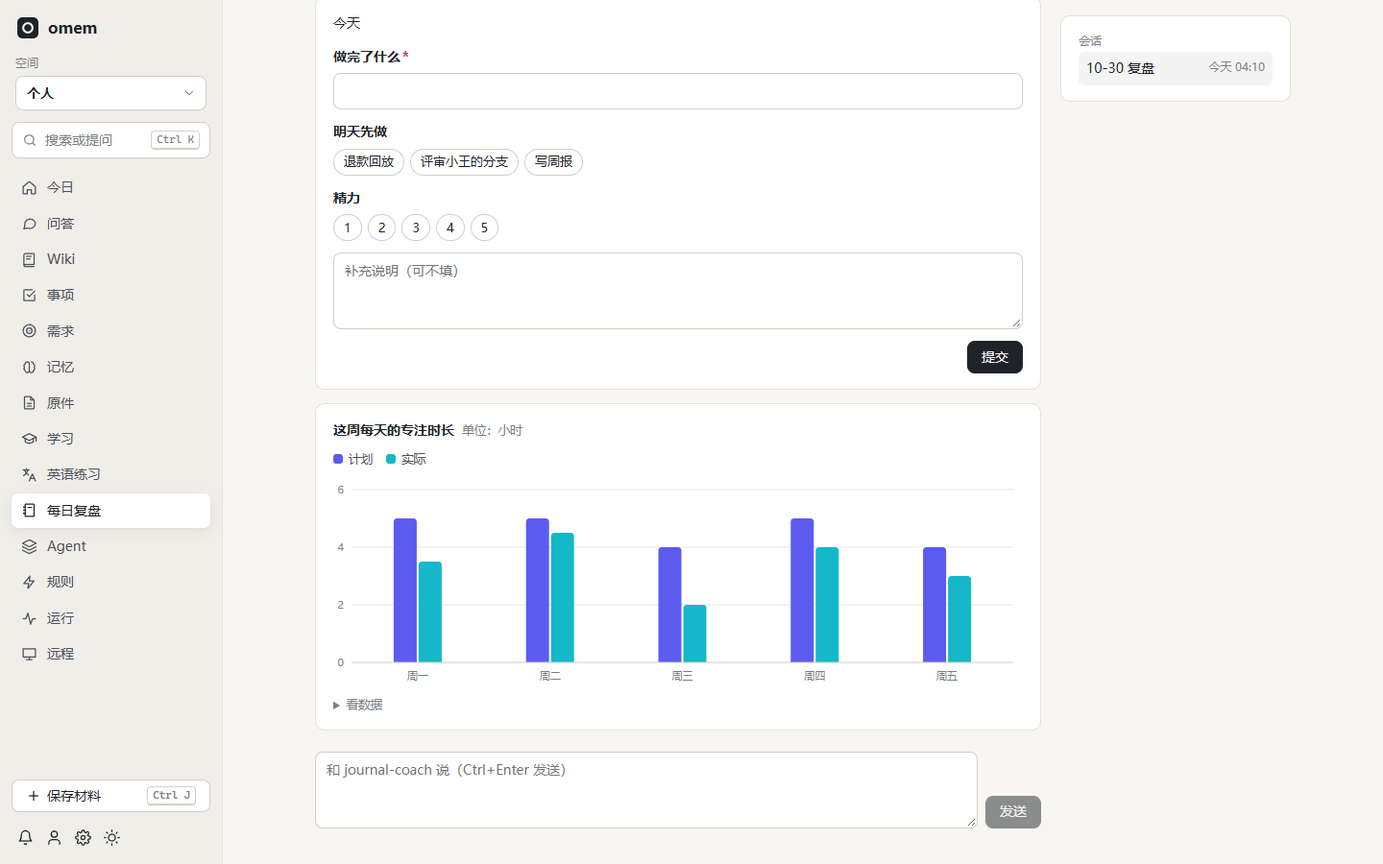
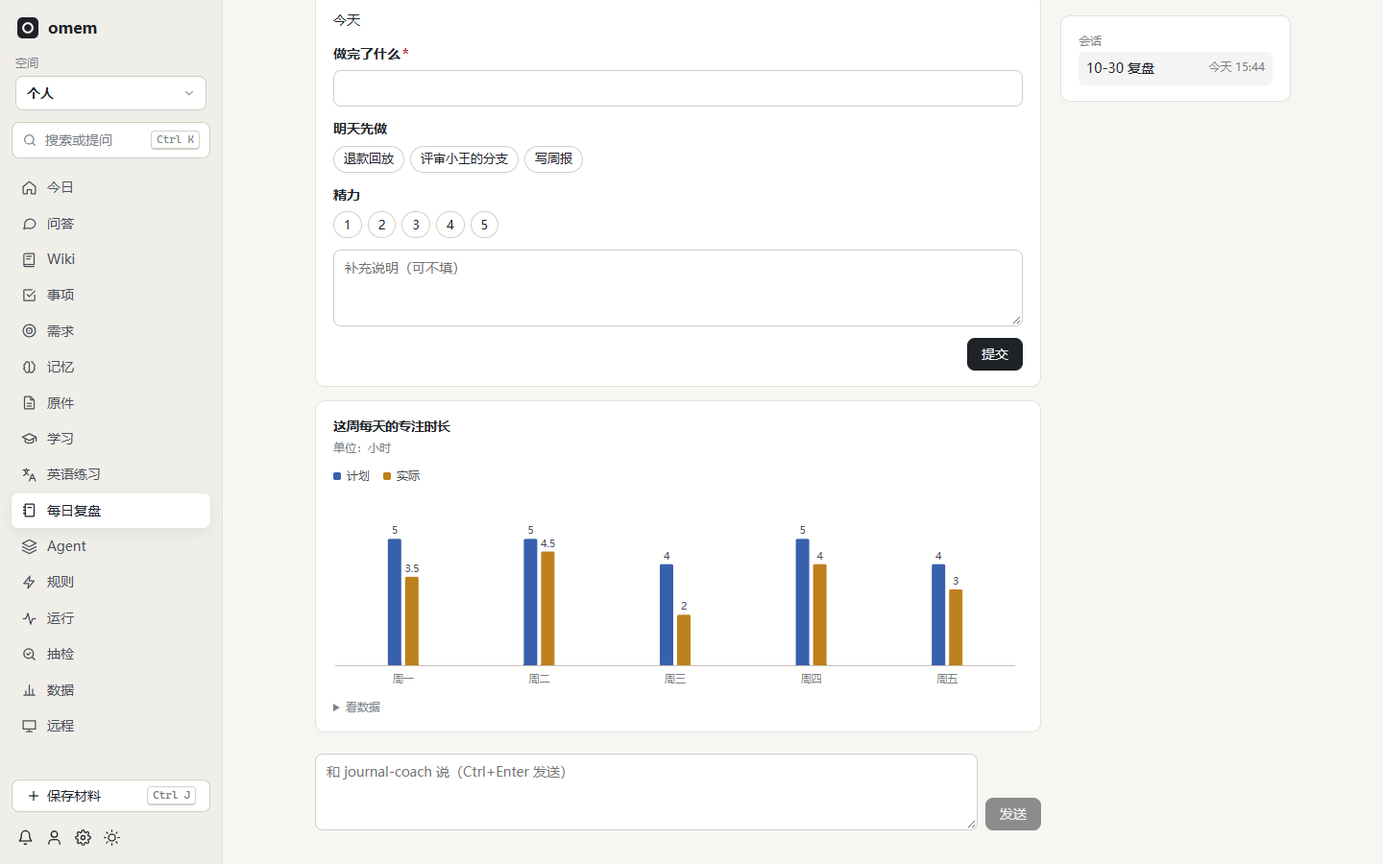
数据页改用公共图表组件；演示数据与截图
- Insights.vue：一排数字用 MetricRow（能点开明细）；单列小表是带链接的条形；多列同单位是并排的彩色条，其他单位的列写在行尾；按周的多列小表是线尾标名字的折线；每天做了多少件是按场景堆叠的柱，场景颜色按场景固定，图例带各场景合计。版式、文字、筛选、明细、导出不变；页面里手写的条形和小柱的样式删掉。
- scripts/doc-screens.ts：一个月的虚构运行、反馈和记忆召回，新截图 insights；一个包含各种图表的演示块（#/ui/uv_charts_demo，放在个人空间，不进别的截图），只供 --serve 时看。重拍 ask-view、plugin-default。
- 文档：site/features/insights.md 加截图，acceptance 加两条验收，Wiki 变更记录加一节。

diff --git a/web/src/views/Insights.vue b/web/src/views/Insights.vue
@@ -8,6 +8,11 @@ import UiCheckbox from "../components/UiCheckbox.vue";
 import UiSelect from "../components/UiSelect.vue";
 import UiDateTime from "../components/UiDateTime.vue";
 import VirtualList from "../components/VirtualList.vue";
+import MetricRow from "../components/charts/MetricRow.vue";
+import RankBars from "../components/charts/RankBars.vue";
+import BarChart from "../components/charts/BarChart.vue";
+import TrendChart from "../components/charts/TrendChart.vue";
+import type { ChartSpec, MetricItem } from "@omem-ai/plugin-sdk/charts";
 
 type Section = InsightsReport["sections"][number];
 type Chart = Section["charts"][number];
@@ -94,13 +99,17 @@ const allMetrics = computed(() => (data.value?.sections ?? []).flatMap(s => [...
 const detailMetric = computed(() => allMetrics.value.find(m => m.key === q("detail")));
 
 // ---- how a section's numbers are laid out
-// Plain numbers are figures. Numbers the server marked as cells of a table become that table: one
-// column of counts is drawn as bars, several columns as a small table. A chart whose every point is
-// already shown as a figure or a cell is not drawn a second time.
-type Row = { label: string; cells: (InsightMetric | undefined)[] };
-type Table = { title: string; cols: string[]; rows: Row[]; max: number };
-const figures = (s: Section) => s.metrics.filter(m => !m.cell);
-function tables(s: Section): Table[] {
+// Plain numbers are figures. Numbers the server marked as cells of a table become rows of bars: the
+// columns in the first column's unit are bars side by side (each in its own colour, its value at the
+// bar's end), the others (a rate, hours) text at the row's end. A chart whose every point is already
+// shown as a figure or a cell is not drawn a second time. Every bar, figure and cell opens its records.
+const figures = (s: Section): MetricItem[] => s.metrics.filter(m => !m.cell).map(m => {
+  const v = shown(m);
+  const prev = m.previous !== undefined ? shown({ value: m.previous ?? null, unit: m.unit }) : null;
+  return { label: m.label, value: v.value, unit: v.unit, link: m.link, hint: m.note ?? "看是哪些记录", note: prev ? `上一段 ${prev.value}${prev.unit}` : m.samples !== undefined ? `${m.samples} 个样本` : undefined };
+});
+type Block = { key: string; kind: "rows" | "bars" | "trend"; wide: boolean; spec: Omit<ChartSpec, "kind">; empty?: boolean };
+function tableBlocks(s: Section): Block[] {
   const out = new Map<string, { cols: string[]; rows: Map<string, Map<string, InsightMetric>> }>();
   for (const m of s.metrics) {
     if (!m.cell) continue;
@@ -112,25 +121,38 @@ function tables(s: Section): Table[] {
     r.set(m.cell.col, m);
   }
   return [...out].map(([title, t]) => {
-    const rows = [...t.rows].map(([label, cells]) => ({ label, cells: t.cols.map(c => cells.get(c)) }));
-    return { title, cols: t.cols, rows, max: Math.max(1, ...rows.map(r => r.cells[0]?.value ?? 0)) };
+    const rows = [...t.rows];
+    const unitOf = (col: string) => rows.map(([, cells]) => cells.get(col)?.unit).find(u => u !== undefined);
+    const unit = unitOf(t.cols[0]);
+    const bars = t.cols.filter(c => unitOf(c) === unit), extras = t.cols.filter(c => unitOf(c) !== unit);
+    const series = bars.map((col, slot) => ({ name: col, slot, values: rows.map(([, cells]) => cells.get(col)?.value ?? 0), links: bars.length > 1 ? rows.map(([, cells]) => cells.get(col)?.link) : undefined }));
+    // Rows that are weeks or days read as a course: one line per column, each point opening its records.
+    if (bars.length > 1 && !extras.length && rows.length >= 3 && rows.every(([label]) => /^\d{4}-\d{2}-\d{2}/.test(label)))
+      return { key: `t:${title}`, kind: "trend" as const, wide: true, spec: { title, unit, labels: rows.map(([label]) => label), series: series.map(x => ({ ...x, links: rows.map(([, cells]) => cells.get(x.name)?.link) })) } };
+    return { key: `t:${title}`, kind: "rows" as const, wide: bars.length > 1 || extras.length > 1, spec: {
+      title, unit, labels: rows.map(([label]) => label), series,
+      links: bars.length === 1 ? rows.map(([, cells]) => cells.get(t.cols[0])?.link) : undefined,
+      extras: extras.map(col => ({ name: col, values: rows.map(([, cells]) => { const v = shown(cells.get(col)); return v.value === "—" ? "" : `${v.value}${v.unit}`; }), links: rows.map(([, cells]) => cells.get(col)?.link) })),
+    } };
   });
 }
-function charts(s: Section): Chart[] {
-  const shown = new Set(s.metrics.map(m => m.key));
-  return s.charts.filter(c => !(c.points?.length && c.points.every(p => shown.has(p.key))));
+function chartBlocks(s: Section, scenes: readonly string[]): Block[] {
+  const shownKeys = new Set(s.metrics.map(m => m.key));
+  return s.charts.filter(c => !(c.points?.length && c.points.every(p => shownKeys.has(p.key)))).map((c: Chart): Block => {
+    const n = c.labels.length, m = c.series.length;
+    // Points come label by label, a series after another within a label (or one per label for a single series).
+    const at = (i: number, si: number) => c.points?.length === n * m ? c.points[i * m + si]?.link : undefined;
+    if (c.kind === "hbar") return { key: `c:${c.title}`, kind: "rows", wide: false, spec: { title: c.title, unit: c.unit, labels: c.labels, series: c.series, links: c.points?.length === n ? c.points.map(p => p.link) : undefined } };
+    // A series keeps its colour by its place among the scenes (or in the chart), whichever of them are drawn.
+    const series = c.series.map((x, si) => ({ ...x, slot: scenes.includes(x.name) ? scenes.indexOf(x.name) : si, links: c.labels.map((_, i) => at(i, si)) })).filter(x => x.values.some(v => v));
+    const empty = !series.length;
+    // A count per day added up over kinds reads best as stacked columns, one a day.
+    if (c.stack) return { key: `c:${c.title}`, kind: "bars", wide: true, empty, spec: { title: c.title, unit: c.unit, labels: c.labels, series, stack: true, caption: dayLabels(c.labels) ? "一根一天" : undefined } };
+    return { key: `c:${c.title}`, kind: "trend", wide: true, empty, spec: { title: c.title, unit: c.unit, labels: c.labels, series, caption: dayLabels(c.labels) ? "一点一天" : undefined } };
+  });
 }
-type Bar = { label: string; value: number; link?: string };
-const barsOf = (c: Chart): Bar[] => c.labels.map((label, i) => ({ label, value: c.series[0]?.values[i] ?? 0, link: c.points?.[i]?.link }));
-type Spark = { name: string; values: number[]; total: number; isTotal?: boolean };
-function sparksOf(c: Chart): { rows: Spark[]; max: number } {
-  const rows: Spark[] = c.series.map(x => ({ name: x.name, values: x.values, total: x.values.reduce((a, b) => a + b, 0) })).filter(x => x.total > 0);
-  if (rows.length > 1) {
-    const sum = c.labels.map((_, i) => rows.reduce((a, r) => a + (r.values[i] ?? 0), 0));
-    rows.unshift({ name: "合计", values: sum, total: sum.reduce((a, b) => a + b, 0), isTotal: true });
-  }
-  return { rows, max: Math.max(1, ...rows.flatMap(r => r.values)) };
-}
+const dayLabels = (labels: string[]) => labels.length > 1 && labels.every(l => /^\d{4}-\d{2}-\d{2}$/.test(l));
+const blocks = (s: Section) => [...tableBlocks(s), ...chartBlocks(s, data.value?.scenes ?? [])];
 function notes(s: Section): string[] {
   const seen = new Set<string>();
   const out: string[] = [];
@@ -156,7 +178,6 @@ function when(at: string) {
   const t = Date.parse(at);
   return Number.isFinite(t) ? new Date(t).toLocaleString("zh-CN", { hour12: false, month: "2-digit", day: "2-digit", hour: "2-digit", minute: "2-digit" }) : at;
 }
-const width = (v: number | null | undefined, max: number) => `${Math.max(0, Math.min(100, ((v ?? 0) / max) * 100))}%`;
 
 // ---- the owner's own assumption, kept in this browser only
 const estimate = ref("");
@@ -233,56 +254,17 @@ function exportUrl(format: string) { const params = new URLSearchParams(query.va
         <p v-if="s.error" role="alert">这一块没算出来：{{ s.error }} <button type="button" class="btn sm" @click="load">重试</button></p>
         <p v-else-if="s.empty" class="muted">{{ s.empty }}</p>
         <template v-else>
-          <div v-if="figures(s).length" class="figures">
-            <a v-for="m in figures(s)" :key="m.key" class="figure" :href="m.link" :title="m.note ?? '看是哪些记录'">
-              <span class="figure-label">{{ m.label }}</span>
-              <span class="figure-value">{{ shown(m).value }}<small v-if="shown(m).unit">{{ shown(m).unit }}</small></span>
-              <span v-if="m.previous !== undefined" class="figure-sub">上一段 {{ shown({ value: m.previous ?? null, unit: m.unit }).value }}{{ shown({ value: m.previous ?? null, unit: m.unit }).unit }}</span>
-              <span v-else-if="m.samples !== undefined" class="figure-sub">{{ m.samples }} 个样本</span>
-            </a>
-          </div>
+          <MetricRow v-if="figures(s).length" :items="figures(s)" />
 
-          <div v-if="tables(s).length || charts(s).length" class="blocks">
-            <div v-for="t in tables(s)" :key="t.title" class="block" :class="{ wide: t.cols.length > 3 }">
-              <h3>{{ t.title }}</h3>
-              <div v-if="t.cols.length === 1" class="bars">
-                <a v-for="r in t.rows" :key="r.label" class="bar-row" :href="r.cells[0]?.link">
-                  <span class="bar-label" :title="r.label">{{ r.label }}</span>
-                  <span class="bar-track"><span class="bar-fill" :style="{ width: width(r.cells[0]?.value, t.max) }"></span></span>
-                  <span class="bar-value">{{ num(r.cells[0]?.value) }}</span>
-                </a>
-              </div>
-              <div v-else class="grid-wrap">
-                <table class="grid">
-                  <thead><tr><th></th><th v-for="c in t.cols" :key="c">{{ c }}</th></tr></thead>
-                  <tbody>
-                    <tr v-for="r in t.rows" :key="r.label">
-                      <th scope="row">{{ r.label }}</th>
-                      <td v-for="(m, i) in r.cells" :key="t.cols[i]"><a v-if="m" :href="m.link" :title="m.note">{{ shown(m).value }}<small v-if="shown(m).unit">{{ shown(m).unit }}</small></a><span v-else class="muted">—</span></td>
-                    </tr>
-                  </tbody>
-                </table>
-              </div>
-            </div>
-
-            <div v-for="c in charts(s)" :key="c.title" class="block" :class="{ wide: c.kind !== 'hbar' }">
-              <h3>{{ c.title }}</h3>
-              <div v-if="c.kind === 'hbar'" class="bars">
-                <component :is="b.link ? 'a' : 'div'" v-for="b in barsOf(c)" :key="b.label" class="bar-row" :href="b.link">
-                  <span class="bar-label" :title="b.label">{{ b.label }}</span>
-                  <span class="bar-track"><span class="bar-fill" :style="{ width: width(b.value, Math.max(1, ...barsOf(c).map(x => x.value))) }"></span></span>
-                  <span class="bar-value">{{ num(b.value) }}</span>
-                </component>
-              </div>
-              <div v-else class="spark" role="img" :aria-label="`${c.title}：${sparksOf(c).rows.map(r => `${r.name} 共 ${r.total}`).join('，')}`">
-                <div v-for="r in sparksOf(c).rows" :key="r.name" class="spark-row" :class="{ total: r.isTotal }">
-                  <span class="spark-name">{{ r.name }}</span>
-                  <span class="spark-bars"><i v-for="(v, i) in r.values" :key="i" :style="{ height: width(v, sparksOf(c).max) }" :title="`${c.labels[i]}：${v}`"></i></span>
-                  <span class="spark-total">{{ num(r.total) }}</span>
-                </div>
-                <div v-if="c.labels.length" class="spark-axis"><span>{{ c.labels[0] }}</span><span>{{ c.labels[c.labels.length - 1] }}</span></div>
-                <p v-if="!sparksOf(c).rows.length" class="muted small">这段时间都是 0。</p>
-              </div>
+          <div v-if="blocks(s).length" class="blocks">
+            <div v-for="b in blocks(s)" :key="b.key" class="block" :class="{ wide: b.wide }">
+              <template v-if="b.empty">
+                <p class="block-title">{{ b.spec.title }}</p>
+                <p class="muted small">这段时间都是 0。</p>
+              </template>
+              <RankBars v-else-if="b.kind === 'rows'" v-bind="b.spec" :table="false" />
+              <BarChart v-else-if="b.kind === 'bars'" v-bind="b.spec" />
+              <TrendChart v-else v-bind="b.spec" />
             </div>
           </div>
 
@@ -317,7 +299,8 @@ function exportUrl(format: string) { const params = new URLSearchParams(query.va
 </template>
 
 <style scoped>
-.data { min-width: 0; }
+/* The page is on --bg, not on a panel: the ring around a chart's dots takes its colour. */
+.data { min-width: 0; --chart-surface: var(--bg); }
 .head-actions { display: flex; align-items: center; gap: 6px; flex: none; }
 .toolbar { display: flex; flex-wrap: wrap; align-items: center; gap: 10px 16px; margin-bottom: 10px; }
 .filters { display: grid; grid-template-columns: repeat(auto-fill, minmax(170px, 1fr)); gap: 12px; padding: 14px 0 6px; border-top: 1px solid var(--line); }
@@ -328,44 +311,10 @@ function exportUrl(format: string) { const params = new URLSearchParams(query.va
 .sec-head p { margin: 4px 0 0; color: var(--muted); font-size: 13px; max-width: 48em; }
 .sec > p { margin: 0; }
 
-.figures { display: grid; grid-template-columns: repeat(auto-fill, minmax(148px, 1fr)); gap: 16px 24px; }
-.figure { display: flex; flex-direction: column; gap: 1px; min-width: 0; padding: 6px 8px; margin: -6px -8px; border-radius: var(--radius-sm); color: inherit; text-decoration: none; }
-.figure:hover { background: var(--hover); }
-.figure-label { font-size: 12.5px; color: var(--muted); overflow-wrap: anywhere; }
-.figure-value { font-size: 24px; font-weight: 650; line-height: 1.3; font-variant-numeric: tabular-nums; }
-.figure-value small { margin-left: 3px; font-size: 12px; font-weight: 400; color: var(--muted); }
-.figure-sub { font-size: 12px; color: var(--muted); }
-
-.blocks { display: grid; grid-template-columns: repeat(2, minmax(0, 1fr)); gap: 22px 40px; }
+.blocks { display: grid; grid-template-columns: repeat(2, minmax(0, 1fr)); gap: 28px 44px; }
 .block { min-width: 0; }
 .block.wide { grid-column: 1 / -1; }
-.block h3 { margin-bottom: 8px; font-size: 13px; font-weight: 600; color: var(--ink-2); }
-
-.bar-row { display: grid; grid-template-columns: minmax(0, 9.5em) minmax(32px, 1fr) minmax(2.5em, auto); align-items: center; gap: 10px; padding: 3px 0; font-size: 13px; color: inherit; text-decoration: none; }
-a.bar-row:hover .bar-label { text-decoration: underline; }
-.bar-label { overflow: hidden; text-overflow: ellipsis; white-space: nowrap; }
-.bar-track { height: 6px; border-radius: 3px; background: var(--sunken); overflow: hidden; }
-.bar-fill { display: block; height: 100%; min-width: 2px; border-radius: 3px; background: color-mix(in srgb, var(--accent) 60%, var(--panel)); }
-.bar-value { text-align: right; font-variant-numeric: tabular-nums; }
-
-.grid-wrap { overflow-x: auto; }
-.grid { width: 100%; border-collapse: collapse; font-size: 13px; }
-.grid th, .grid td { padding: 5px 0 5px 14px; border-bottom: 1px solid var(--line); text-align: right; font-variant-numeric: tabular-nums; white-space: nowrap; }
-.grid th:first-child { padding-left: 0; text-align: left; font-weight: 400; white-space: normal; overflow-wrap: anywhere; }
-.grid thead th { font-size: 12px; font-weight: 500; color: var(--muted); }
-.grid a { color: inherit; text-decoration: none; }
-.grid a:hover { text-decoration: underline; }
-.grid small { margin-left: 2px; font-size: 11.5px; color: var(--muted); }
-
-.spark-row { display: grid; grid-template-columns: 6.5em minmax(0, 1fr) 3.2em; align-items: end; gap: 10px; padding: 3px 0; font-size: 13px; }
-.spark-name { overflow: hidden; text-overflow: ellipsis; white-space: nowrap; color: var(--ink-2); }
-.spark-bars { display: flex; align-items: flex-end; gap: 1px; height: 28px; border-bottom: 1px solid var(--line); }
-.spark-bars i { flex: 1 1 0; min-width: 1px; border-radius: 1px 1px 0 0; background: color-mix(in srgb, var(--accent) 60%, var(--panel)); }
-.spark-row.total .spark-bars { height: 44px; }
-.spark-row.total .spark-bars i { background: var(--ink-2); }
-.spark-row.total .spark-name { color: var(--ink); font-weight: 600; }
-.spark-total { text-align: right; font-variant-numeric: tabular-nums; }
-.spark-axis { display: flex; justify-content: space-between; margin: 3px calc(3.2em + 10px) 0 calc(6.5em + 10px); font-size: 11.5px; color: var(--muted); }
+.block-title { margin: 0 0 4px; font-size: 13.5px; font-weight: 600; }
 
 .how { font-size: 12.5px; color: var(--muted); }
 .how summary { cursor: pointer; width: fit-content; }
@@ -383,9 +332,6 @@ a.bar-row:hover .bar-label { text-decoration: underline; }
 .mono { font-family: var(--mono); }
 
 @media (max-width: 760px) {
-  .blocks { grid-template-columns: minmax(0, 1fr); gap: 20px; }
-  .bar-row { grid-template-columns: minmax(0, 7em) minmax(24px, 1fr) minmax(2.5em, auto); }
-  .spark-row { grid-template-columns: 5em minmax(0, 1fr) 3em; }
-  .spark-axis { margin: 3px calc(3em + 10px) 0 calc(5em + 10px); }
+  .blocks { grid-template-columns: minmax(0, 1fr); gap: 24px; }
 }
 </style>

diff --git a/scripts/doc-screens.ts b/scripts/doc-screens.ts
@@ -672,11 +672,63 @@ for (const [i, d] of delivery.stages.entries()) {
   run(app.db, "update item_stage_log set at=? where item_id=? and stage_id=?", flowAt(active ? 4 : 24 - i * 6), flowItem.id, d.id);
 }
 
+// ---- a month of runs for the data page (#/insights) -------------------------------------------
+// Fictional counts only: who asked, in which demo chat, with which made-up model.
+{
+  let seed = 7;
+  const rnd = () => ((seed = (seed * 1103515245 + 12345) % 2147483648) / 2147483648);
+  const pick = <T,>(xs: T[]) => xs[Math.floor(rnd() * xs.length)];
+  const kinds: [string, number][] = [["ask", 9], ["agent", 4], ["code", 2], ["review", 2], ["brief", 1], ["heartbeat", 2], ["mention", 2], ["guest", 2], ["ingest", 6]];
+  const bag = kinds.flatMap(([k, w]) => Array<string>(w).fill(k));
+  const people = ["user:owner", "user:owner", "user:owner", "user:xiaowang", "user:xiaoli"];
+  const chats = ["退款改造项目群", "示例商城值班群", "和小王的私聊", "网页"];
+  const ais = [{ profile: "codex-acp", model: "model-a" }, { profile: "codex-acp", model: "model-b" }, { profile: "claude-acp", model: "model-c" }];
+  const day0 = Date.now() - 29 * 86400_000;
+  let k = 0;
+  for (let d = 0; d < 30; d++) {
+    // A working week: busier on weekdays, a little busier towards now.
+    const weekday = new Date(day0 + d * 86400_000).getDay();
+    const n = Math.round((weekday === 0 || weekday === 6 ? 3 : 9) * (0.7 + d / 60) + rnd() * 5);
+    for (let j = 0; j < n; j++) {
+      const kind = pick(bag);
+      const at = day0 + d * 86400_000 + Math.floor((8 + rnd() * 11) * 3600_000);
+      const took = kind === "code" ? 1200 + rnd() * 3600 : 20 + rnd() * 400;
+      const status = rnd() < 0.06 ? "failed" : "done";
+      const id = `r_demo_insight_${k++}`;
+      const guest = kind === "guest";
+      const output: Record<string, unknown> = guest ? { verdict: "answer" } : kind === "code" && rnd() < 0.7 ? { verdict: "approved", ...(rnd() < 0.7 ? { appliedAt: new Date(at + took * 1000 + 3600_000).toISOString() } : {}) } : kind === "mention" ? (rnd() < 0.5 ? { triage: { action: "handle" }, handleRun: `${id}_h` } : {}) : {};
+      const quiet = kind === "mention" && !output.triage ? 1 : 0;
+      run(app.db, "insert into runs(id,kind,space_id,status,title,input,output,trigger,trigger_by,user_id,ai,quiet,created_at,started_at,finished_at) values(?,?,?,?,?,?,?,?,?,?,?,?,?,?,?)",
+        id, kind, pick(["shop", "shop", "refund", "personal"]), status, "演示", JSON.stringify({}), JSON.stringify(output),
+        JSON.stringify({ via: guest ? "guest" : "web", where: pick(chats) }), guest ? pick(["lark:ou_demo_a", "lark:ou_demo_b", "lark:ou_demo_c"]) : pick(people), guest ? null : "owner",
+        JSON.stringify(pick(ais)), quiet, new Date(at).toISOString(), new Date(at + 2000).toISOString(), new Date(at + took * 1000).toISOString());
+      // Reactions on some answers, and memories recalled for some.
+      if ((kind === "ask" || guest) && rnd() < 0.35) run(app.db, "insert into feedback(id,channel,message_id,run_id,on_bot,actor_id,actor_kind,emoji,polarity,at) values(?,?,?,?,?,?,?,?,?,?)",
+        `fb_demo_${k}`, "lark", `om_demo_${k}`, id, 1, "ou_demo_member", "member", "THUMBSUP", rnd() < 0.82 ? "positive" : "negative", new Date(at + took * 1000 + 600_000).toISOString());
+      if (kind !== "ingest" && rnd() < 0.5) run(app.db, "insert into memory_recalls(memory_id,run_id,used,at,purpose) values(?,?,?,?,?)", "m_demo", id, rnd() < 0.4 ? 1 : 0, new Date(at).toISOString(), "answer");
+      if (kind === "ingest" && rnd() < 0.5) run(app.db, "insert into memory_recalls(memory_id,run_id,used,at,purpose) values(?,?,?,?,?)", "m_demo", id, rnd() < 0.2 ? 1 : 0, new Date(at).toISOString(), "upkeep");
+    }
+  }
+}
+
+// Every kind of chart in one view (#/ui/uv_charts_demo), to look at with --serve.
+// In the personal space, so it stays out of the demo project's conversation list in the other shots.
+const chartsDemo = createThread(app, { channel: "web", spaceId: "personal", title: "退款原因与趋势", userId: "owner" });
+addMessage(app, chartsDemo.id, "user", "退款原因和这两周的走势画出来看看。");
+run(app.db, "insert into ui_views(id,run_id,conversation_id,user_id,title,components,created_at) values(?,?,?,?,?,?,?)", "uv_charts_demo", "r_charts_demo", chartsDemo.id, "owner", "退款原因与趋势", JSON.stringify([
+  { type: "metric", items: [{ label: "退款单", value: 482, unit: "单", change: "+12%", good: "down", note: "比上两周", spark: [30, 34, 29, 41, 38, 22, 19, 36, 40, 33, 45, 44, 25, 21] }, { label: "平均处理", value: "2.1", unit: "天", change: "-0.4", good: "down", note: "比上两周" }, { label: "部分退款", value: 97, unit: "单", note: "占 20%" }, { label: "人工介入", value: 31, unit: "单" }] },
+  { type: "chart", title: "退款原因排行", kind: "hbar", unit: "单", labels: ["尺码不合适", "质量问题", "物流太慢", "与描述不符", "不想要了"], series: [{ name: "退款单", values: [168, 121, 84, 63, 46] }], highlight: "质量问题", goal: 150 },
+  { type: "chart", title: "每天的退款单", kind: "area", unit: "单", labels: Array.from({ length: 14 }, (_, i) => `11-${String(i + 1).padStart(2, "0")}`), series: [{ name: "退款单", values: [30, 34, 29, 41, 38, 22, 19, 36, 40, 33, 45, 44, 25, 21] }] },
+  { type: "chart", title: "三个渠道的退款率", kind: "line", unit: "%", labels: ["第 1 周", "第 2 周", "第 3 周", "第 4 周", "第 5 周", "第 6 周"], series: [{ name: "App", values: [3.1, 3.4, 3.2, 3.8, 4.1, 4.6] }, { name: "小程序", values: [2.2, 2.5, 2.4, 2.6, 2.3, 2.4] }, { name: "网页", values: [4.0, 3.6, 3.3, 3.1, 2.9, 2.7] }] },
+  { type: "chart", title: "每周的退款方式", kind: "bar", stack: true, unit: "单", labels: ["第 1 周", "第 2 周", "第 3 周", "第 4 周"], series: [{ name: "原路退回", values: [96, 104, 112, 121] }, { name: "退到余额", values: [41, 38, 47, 52] }, { name: "人工打款", values: [9, 12, 7, 5] }] },
+  { type: "chart", title: "退款单的构成", kind: "pie", unit: "单", labels: ["整单退款", "部分退款", "仅退运费", "其他"], series: [{ name: "退款单", values: [341, 97, 30, 14] }] },
+]), new Date().toISOString());
+
 // ---- capture ----------------------------------------------------------------------------------
 const server = await startServer(app, { port: 0, host: "127.0.0.1", quiet: true });
 const url = app.baseUrl;
 if (serveOnly) {
-  console.log(`演示数据：${url}/#/runs/${r.id}（Ctrl+C 结束）；流程 ${url}/#/items/${flowItem.id}；分享页 ${url}/#/share/${shareToken}`);
+  console.log(`演示数据：${url}/#/runs/${r.id}（Ctrl+C 结束）；流程 ${url}/#/items/${flowItem.id}；分享页 ${url}/#/share/${shareToken}；数据页 ${url}/#/insights；各种图表 ${url}/#/ui/uv_charts_demo`);
   const cleanup = async () => { await server.close(); app.db.close(); rmSync(home, { recursive: true, force: true }); process.exit(); };
   process.once("SIGINT", cleanup); process.once("SIGTERM", cleanup);
   await new Promise(() => {});
@@ -685,6 +737,7 @@ const browser = await chromium.launch(process.env.CHROMIUM ? { executablePath: p
 const shots: { name: string; path: string; width?: number; dark?: boolean; space?: string; init?: Record<string, string>; before?: (page: Page) => Promise<void>; prepare?: (page: Page) => Promise<void> }[] = [
   { name: "item-flow", path: `/items/${flowItem.id}`, width: 1440, prepare: async (p) => { await p.getByRole("region", { name: "事项流程", exact: true }).scrollIntoViewIfNeeded(); } },
   { name: "today", path: "/" },
+  { name: "insights", path: "/insights", space: "personal" },
   { name: "ask-citations", path: `/ask/${t.id}` },
   { name: "wiki-tree", path: "/wiki/shop/refund/cases/partial-shipment-over-refund" },
   { name: "wiki-tree-mobile", path: "/wiki/shop/refund/cases/partial-shipment-over-refund", width: 390, prepare: async (p) => { await p.getByRole("button", { name: "目录" }).click(); await p.waitForTimeout(400); } },

diff --git a/.repo-review/wiki/reference/changes-since-2026-10-13.md b/.repo-review/wiki/reference/changes-since-2026-10-13.md
@@ -8,6 +8,14 @@ updated: 2026-11-15
 这套 Wiki 主体生成于 2026-10-13。之后的提交按模块整理如下，每条给出改了什么和从哪个文件读起。[记忆与事项](../concepts/memory-and-items.md)、[渠道](../concepts/channels.md) 和 [参考](./tools-commands-runs.md) 已按 2026-10-18 的代码补过，其他页面可能还停在旧实现。以代码为准。
 
 
+## 图表与指标只有一种画法（11-15）
+
+- 新增 `packages/plugin-sdk/charts.ts`（`@omem-ai/plugin-sdk/charts`）：柱、横向条形、折线、面积、细环、指标数字和小走势的唯一画法，不依赖框架，颜色全走 CSS 变量。`blocks.ts` 的 `chart` / `metric` 改由它画；网页的 `web/src/components/charts/`（`Chart`、`BarChart`、`RankBars`、`TrendChart`、`ShareChart`、`MetricRow`、`Sparkline`）是它的薄封装。
+- 样子：发丝线网格（每根柱都标了数时不画）、细柱 2px 圆角、关键值用实心点加数字写在图上、几条线在线尾标名字、日期轴每个标签一根短刻度、单组面积图由细竖线组成；横向条形改成 HTML（名字、条、数，可带链接和行尾的其他列）；指标去掉卡片边框，改成发丝竖线隔开的一排数。约定见 `docs/v2/interactive-ui.md`“图表的样子”和 `.agents/skills/omem-design`。
+- 颜色 token：`web/src/styles.css` 的 `--chart-1`…`--chart-8`、`--chart-grid`、`--chart-axis`（浅色、深色各一套，做过色盲区分检查），替换了 `blocks.ts` 里写死的 `--s1`…`--s8`；插件页的 `omem.css` 从同一文件复制。飞书卡片的 `SERIES` 用浅色同一组值，`chartSpec` 改成细柱、值轴浅网格、虚线目标线、细环饼图；`test/ui-blocks.test.ts` 核对卡片色值和 token 一致。
+- 组件块 `chart` 加可选的 `highlight`（强调一个标签，须是 labels 里的一项）；以前的块照常显示。文字版里强调的那一行加粗。
+- 数据页（`web/src/views/Insights.vue`）改用这些组件：一排数字是 `MetricRow`，单列的小表是带链接的条形，多列同单位的小表是并排的彩色条（其余单位写在行尾），每天的件数是按场景堆叠的柱（场景颜色固定），每天的正面、负面反馈是线尾标名字的折线；版式、文字、筛选、明细、导出不变。`scripts/doc-screens.ts` 加了一个月的虚构运行、`insights` 截图和一个包含各种图表的演示块（`#/ui/uv_charts_demo`，只供 `--serve` 时看）。
+
 
 
 ## 回复发出后有没有用（11-15）
@@ -25,6 +33,7 @@ updated: 2026-11-15
 - 不另起一套调度：课题是一件持续关注的事项，加一份带轮次的流程，加一份台账。给流程补四样通用的能力——轮次（`repeat`）、阶段的 AI 档位与时间段（`ai` / `at` / `window`）、升档（`escalate`）、预算（`budget`）；“一个方向下跑很多试验”由新的对象 `trials` 承担。
 - 试验在哪跑不写死：登记的执行环境（本机、云端会话型后端、托管的流水线、另一台设备）。另一台设备现在只能由本机的模型经 `code_workspace` 去操作或 `ask_agent(档案@节点)` 一问一答，“把试验派过去”要新做。第三方样本的代码只在标了可以执行的环境里跑。
 - 台账是三张挂在事项上的表：方向、试验、发现；功能清单和各方向的结论写在仓库空间的 Wiki 里。夜里的改动留在交办分支上、经评审、不合并不推主分支；推送只对课题登记的远端和分支前缀持续授权；对外只出草稿。具体怎么挑样本、怎么跑写成技能，不进仓库。
+
 
 ## 流程的两个页面重做版式和文字（11-15）
 

diff --git a/docs/v2/acceptance.md b/docs/v2/acceptance.md
@@ -1481,6 +1481,8 @@ TraeX 与其他 ACP 的清理补验：
 | 1440 和 390 宽度看问答页、`#/ui/<id>` | 没有横向溢出；宽表格在自己的框里横向滚动 | 本地网页验过 |
 | 飞书私聊里让助理用一张表问团建的日期、人数、方案 | 卡片里直接有输入框、下拉、日期选择；漏填必填项点提交，弹出“还没填：…”，卡片还能接着填；填好提交后卡片变成“已填写”和逐行摘要，助理接着回答 | 测试覆盖，真机待验 |
 | 飞书里让助理画一张退款趋势图、列一张对比表 | 回复之后来一张卡片：表格可翻页，图表是飞书的图表，带“在网页上查看” | 测试覆盖，真机待验 |
+| 让助理画“三个渠道这六周的退款率”和“退款原因排行，重点看质量问题”（2026-11-15 图表改版） | 网页上折线在线尾写“数 渠道名”，三种颜色分得清，不用图例；排行是名字、细条、数一行一个，“质量问题”那一行满色、其余变淡；指标是发丝线隔开的一排数；深色下换成深色那套颜色。飞书卡片里同一组颜色、细柱、浅网格、虚线目标线 | 演示数据（`#/ui/uv_charts_demo`）浅色深色、1440 / 390 看过；卡片按测试，真机待验 |
+| 数据页（2026-11-15 图表改版） | 每块上面一排数（能点开明细）；单列小表是带链接的条形；多列同单位是并排的彩色条、其他单位写在行尾；每天做了多少件是按场景堆叠的柱，场景颜色在筛选前后不变，图例带各场景合计，最高的一天和最后一天写出合计；390 宽没有横向溢出 | 演示数据看过 |
 | 问答里说“通知设置页想改，做两个能点的方案让我试” | 助理用 `ui_page` 写页面，放进提问；页面在回复下面，能全屏、切版本，开关能点；在页面里选一个，选择回到会话，助理照着继续 | 演示数据验过界面和提交，真实 Agent 待验 |
 | 交互页里有 `fetch("https://…")` 或外链图片 | 请求被拦，页面别的部分照常工作 | 本地网页验过 |
 | 切换浅色 / 深色 | 页面里的颜色跟着变，不用重新打开 | 本地网页验过 |

diff --git a/site/features/insights.md b/site/features/insights.md
@@ -4,7 +4,9 @@
 
 “做得怎么样”里的“回复发出后的结果”不靠表情：它按回答之后大家说的话统计解决了、被追问、被纠正、别人接手了各多少，“被复盘改判的”是第一遍标错、后来被纠正过来的条数。
 
-页面依次是：用了多少、用在哪、替你挡了多少、给别人带来什么、做得怎么样、编码交付、知识用上了没有、花了多少时间。每一块上面是几个数，下面是按场景、空间、Agent 等分开的条形或小表格；每块末尾的“这些数是怎么数的”写明口径。每天任务按场景叠加，每周人数分本人、成员、访客与机器人。后台整理是系统维护知识的工作，定时巡检里没有新动静、安静结束的那些也算在这里；它们默认单列，不计入使用和成本合计；可以打开“包含后台整理”。成功率始终排除整理，只算已完成或失败的运行。
+页面依次是：用了多少、用在哪、替你挡了多少、给别人带来什么、做得怎么样、编码交付、知识用上了没有、花了多少时间。每一块上面是几个数，下面是按场景、空间、Agent 等分开的条形，几列同单位的数并排成不同颜色的条；每块末尾的“这些数是怎么数的”写明口径。每天任务按场景叠加，每周人数分本人、成员、访客与机器人。后台整理是系统维护知识的工作，定时巡检里没有新动静、安静结束的那些也算在这里；它们默认单列，不计入使用和成本合计；可以打开“包含后台整理”。成功率始终排除整理，只算已完成或失败的运行。
+
+<Shot src="insights" caption="数据页：上面一排数，下面是条形和按天的柱，每个数都能点开看是哪些记录" />
 
 每个数字及图表的数据点都能打开“看明细”，核对记录标识、时间与去向。比例的明细列出分母样本，再从清单回到运行或对应列表。不会显示访客的提问和答案正文。主人能看全部；成员只看自己触发或拥有、且有权阅读的运行。不会给人排效率名次。
 
